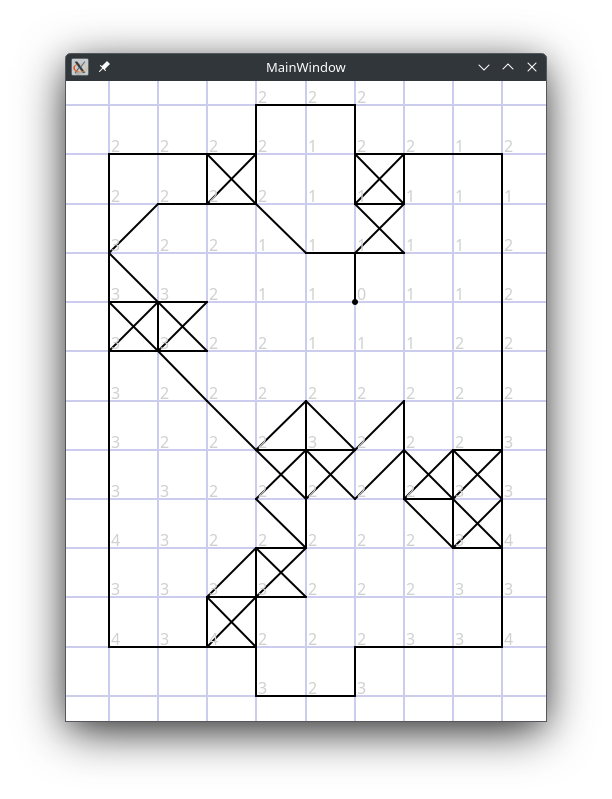
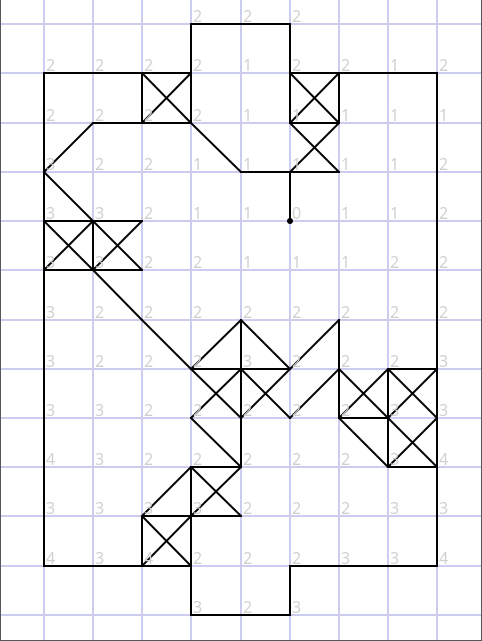
udpate paper soccer

diff --git a/papersoccer.md b/papersoccer.md
@@ -22,7 +22,7 @@ I haven't stopped working on Paper Soccer. I take some breaks and return to it e
 
 ![papersoccer2](papersoccer2.png "PaperSoccer2")
 
-The inputs are more sparse. Each node's index is now 8 x distance + number of free neighbours of node (or degrees in graph terms). So each node can have one of 64 values, meaning 316 + 105 x 64 = ~7k inputs (in reality a little less). I don't use those in codingame bot, but for my computer. The chart of winrate against previous best bot during training looks like this:
+The inputs are more sparse. Each node's index is now 8 x distance + number of free neighbours of node - 1 (or degrees in graph terms). So each node can have one of 64 values, meaning 316 + 105 x 64 = ~7k inputs (in reality a little less). I don't use those in codingame bot, but for my computer. The chart of winrate against previous best bot during training looks like this:
 
 ![papersoccerchart](papersoccerchart.png "PaperSoccerChart")
 
